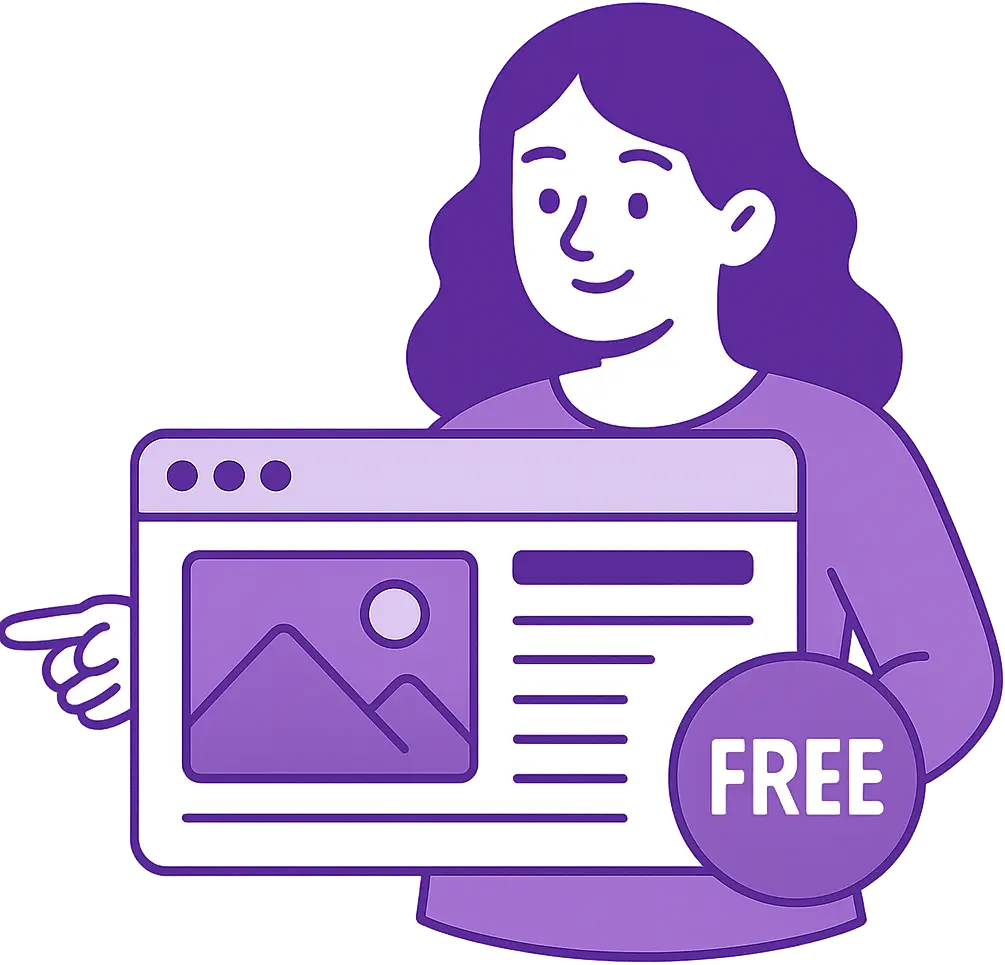
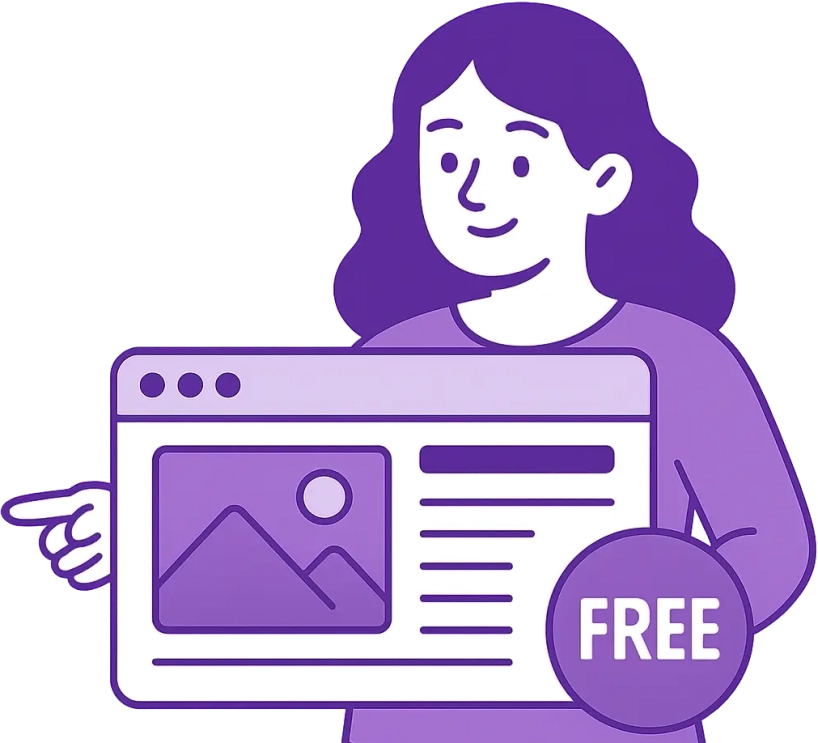
modified the promo offer images also updated the 3dcarousel

diff --git a/src/styles/carousel-3d.css b/src/styles/carousel-3d.css
@@ -1,8 +1,5 @@
 .crsl-wrapper {
     text-align: center;
-    /* max-width: 1200px; */
-    /* margin: 0 auto; */
-    /* background-color: #f5f0ff; */
     padding: 60px 0;
     box-sizing: border-box;
     border-bottom: 2px dashed #7249ac3c;
@@ -19,7 +16,8 @@
 
 .crsl-3d {
     position: relative;
-    width: 850px;
+    width: 100%;
+    max-width: 850px;
     height: 540px;
     perspective: 800px;
     transform-style: preserve-3d;
@@ -35,8 +33,6 @@
         scaleY(calc(1 + var(--abs-offset) * -0.4))
         translateZ(calc(var(--abs-offset) * -30rem)) 
         translateX(calc(var(--direction) * -5rem));
-    /* filter: blur(calc(var(--abs-offset) * 0.3rem)); */
-    /* opacity: calc(1 - var(--abs-offset) * 0.8); */
     transition: opacity 0.3s ease-out, transform 0.3s ease-out;
     will-change: transform, opacity;
 }
@@ -47,7 +43,6 @@
     border-radius: 1rem;
     overflow: hidden;
     display: flex;
-    /* box-shadow: 0 4px 12px rgba(0, 0, 0, 0.15); */
     flex-direction: column;
 }
 
@@ -90,7 +85,6 @@
     z-index: 2;
     user-select: none;
     box-shadow: 0 2px 12px rgba(0,0,0,0.05);
-
 }
 
 .crsl-nav:hover {
@@ -103,4 +97,45 @@
 
 .crsl-right {
     right: -3rem;
+}
+
+/* ========== Mobile responsiveness ========== */
+@media (max-width: 768px) {
+    .crsl-3d {
+        height: 360px;
+        max-width: 95%;
+        perspective: 600px;
+    }
+
+    .crsl-nav {
+        width: 38px;
+        height: 38px;
+    }
+
+    .crsl-left {
+        left: -1.5rem;
+    }
+
+    .crsl-right {
+        right: -1.5rem;
+    }
+
+    .crsl-global-title h3 {
+        font-size: 1.5rem;
+    }
+}
+
+@media (max-width: 480px) {
+    .crsl-3d {
+        height: 300px;
+    }
+
+    .crsl-global-title h3 {
+        font-size: 1.25rem;
+    }
+
+    .crsl-nav {
+        width: 32px;
+        height: 32px;
+    }
 }

diff --git a/src/components/PromoPanel.jsx b/src/components/PromoPanel.jsx
@@ -9,7 +9,7 @@ const PromoPanel = ({ onClaim }) => {
         <h2>Get Your FREE Custom Website Now!</h2>
         <p>
           <strong>Ready to launch your online presence?</strong><br />
-          For a limited time, claim your personalized website – absolutely <strong>FREE</strong>! Let our
+          For a limited time, claim your personalized website – absolutely <strong style={{ color: "#7349ac" }}>FREE</strong>! with no hidden costs. Let our
           digital experts build it for you.
         </p>
         <div className="popup-cta">
@@ -21,7 +21,7 @@ const PromoPanel = ({ onClaim }) => {
       </div>
      <div className="popup-image">
   <picture>
-    <source media="(max-width: 767px)" srcSet="/assets/website-promo2.webp" />
+    <source media="(max-width: 767px)" srcSet="/assets/website-promo-mob.webp" />
     <img
       src="/assets/website-promo.webp"
       alt="Get Started Illustration"

diff --git a/src/components/Carousel3D.jsx b/src/components/Carousel3D.jsx
@@ -28,12 +28,12 @@ const Carousel3D = ({ cards }) => {
     const count = cards.length;
 
     // Auto-advance every 2 seconds
-    useEffect(() => {
-        const interval = setInterval(() => {
-            setActive(prev => (prev + 1) % count);
-        }, 2000);
-        return () => clearInterval(interval);
-    }, [count]);
+    // useEffect(() => {
+    //     const interval = setInterval(() => {
+    //         setActive(prev => (prev + 1) % count);
+    //     }, 2000);
+    //     return () => clearInterval(interval);
+    // }, [count]);
 
     const handlePrev = () => setActive(prev => (prev - 1 + count) % count);
     const handleNext = () => setActive(prev => (prev + 1) % count);

diff --git a/src/components/GlobalTimer.jsx b/src/components/GlobalTimer.jsx
@@ -4,7 +4,7 @@ import '../styles/global-timer.css';
 const GlobalTimer = () => {
     const [timeLeft, setTimeLeft] = useState(null);
     const intervalRef = useRef(null);
-    let offerStartUTC = new Date("2025-05-28T17:47:00Z").getTime();
+    let offerStartUTC = new Date("2025-06-07T17:47:00Z").getTime();
     let offerEndUTC = offerStartUTC + 7 * 24 * 60 * 60 * 1000;
 
     useEffect(() => {

diff --git a/src/styles/horizontal-showcase-slider.css b/src/styles/horizontal-showcase-slider.css
@@ -31,7 +31,7 @@
   display: flex;
   align-items: center;
   justify-content: center;
-  background-image: url('/assets/portfolio/imac-mockup-2.webp');
+  background-image: url('/assets/portfolio/imac-mockup-2.png');
   background-size: contain;
   background-position: center;
   background-repeat: no-repeat;
